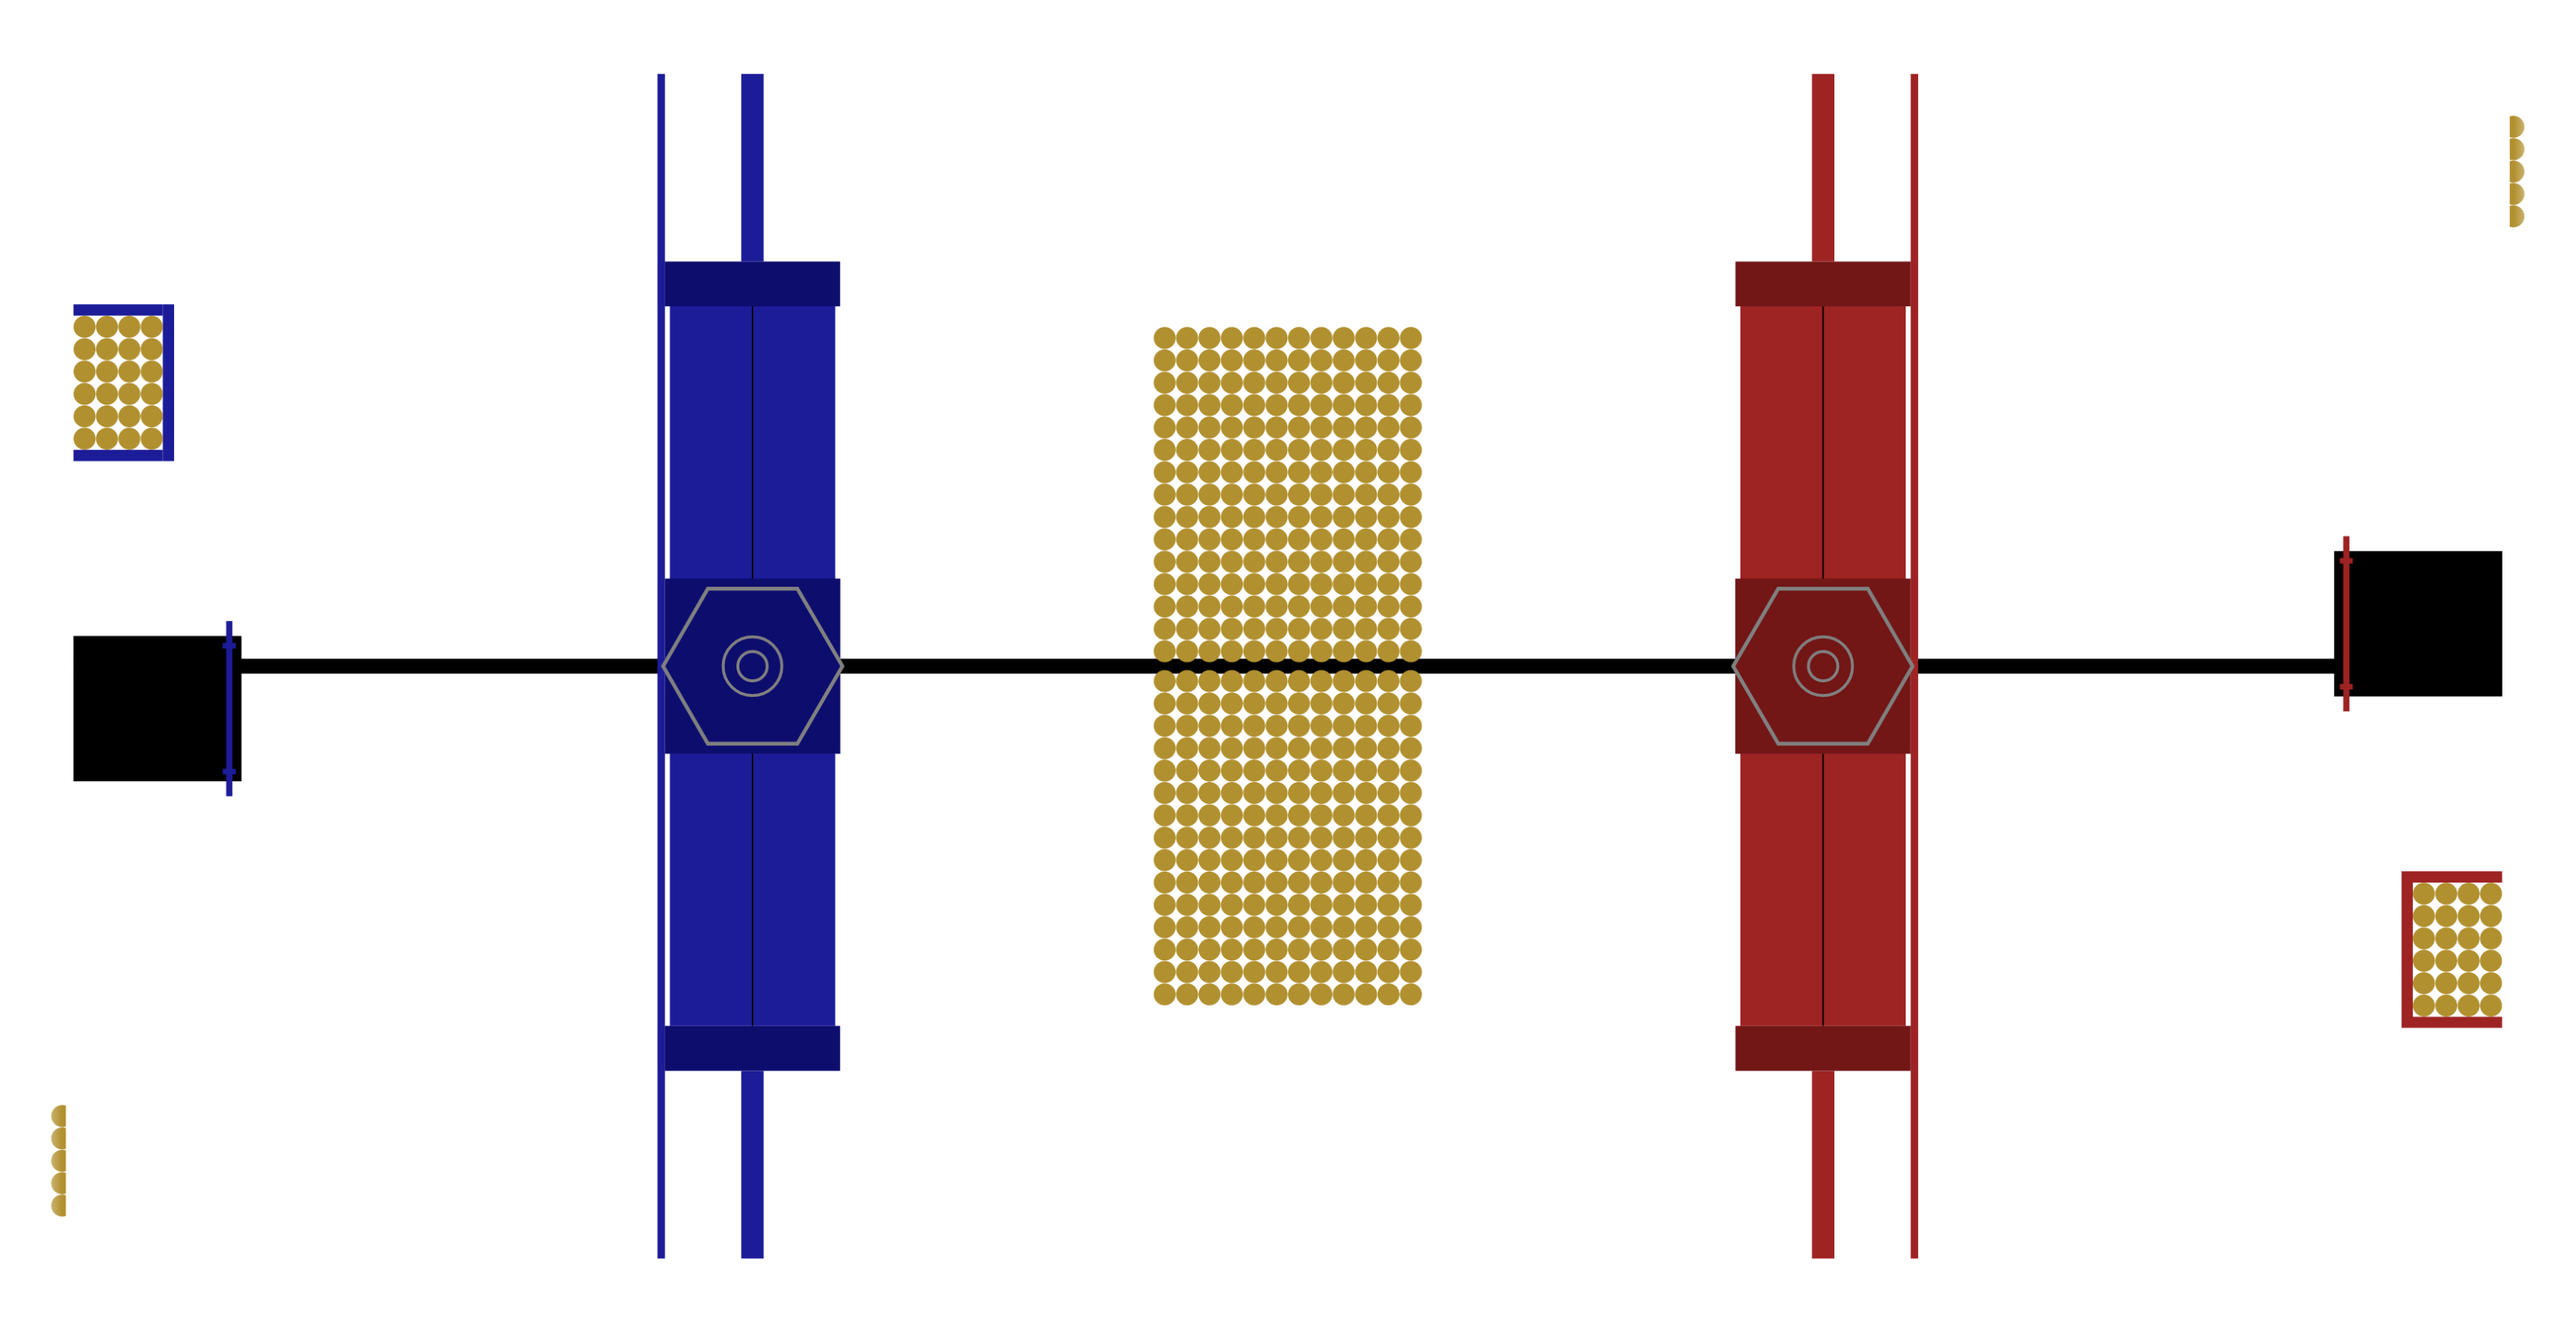
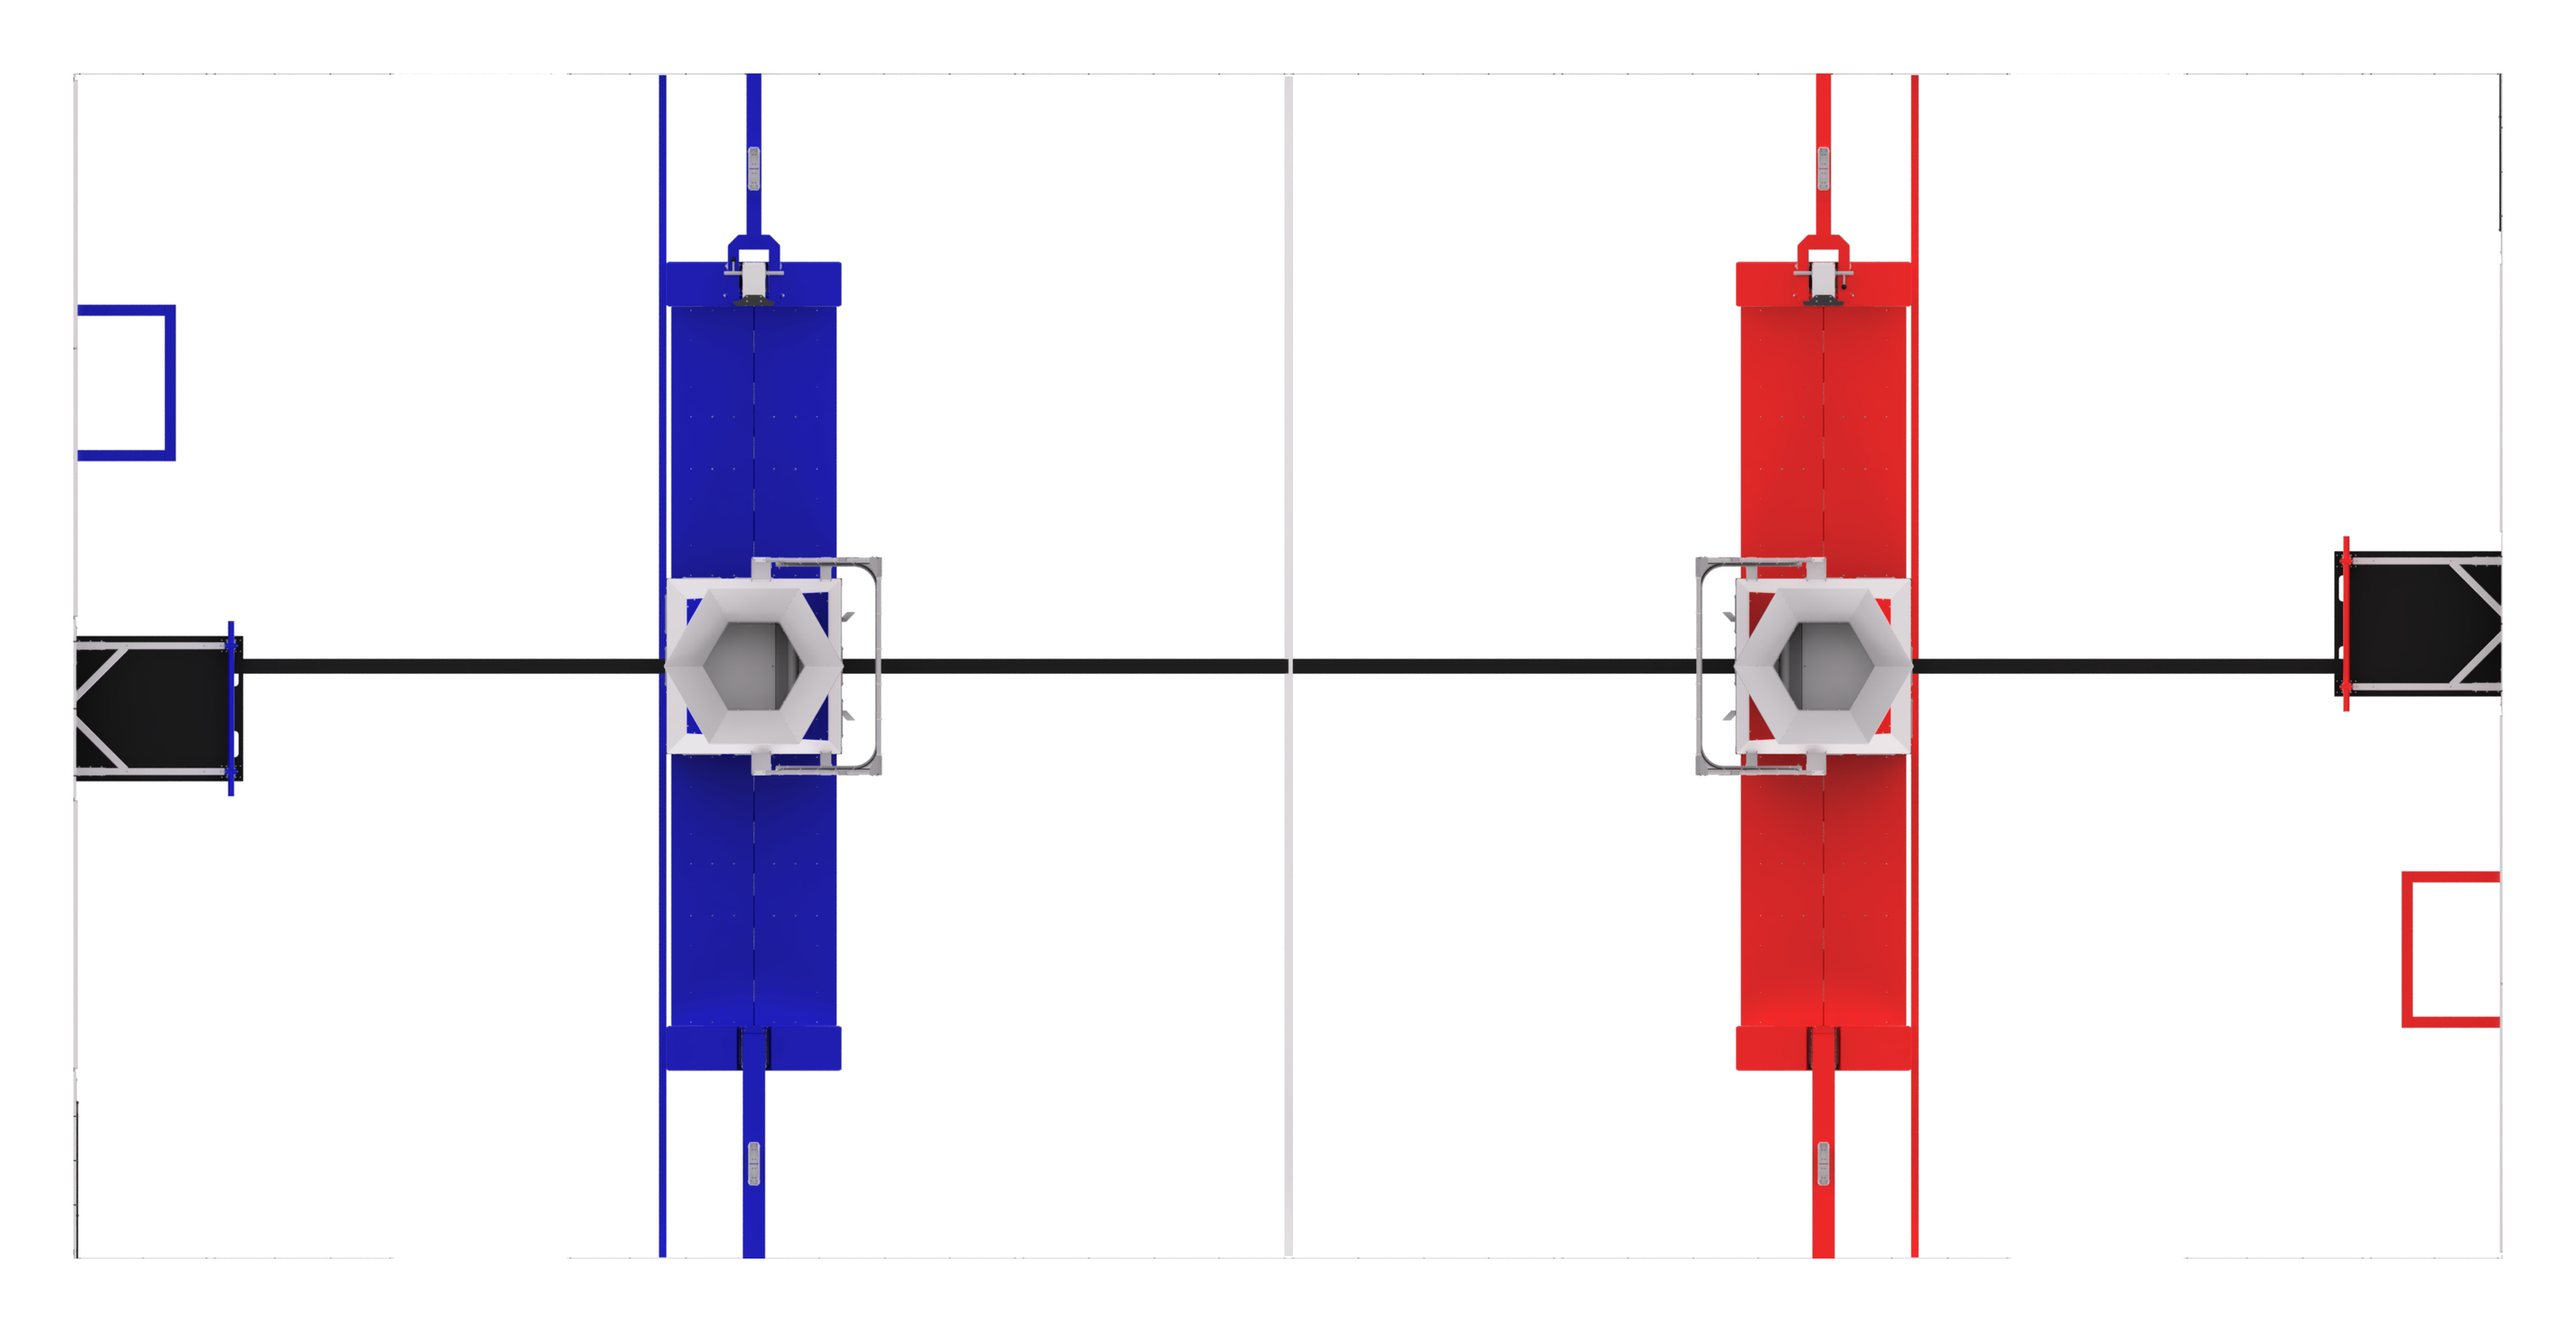
Use the empty 2026 field render as the field background
field26.png had the game pieces drawn on it: a wall of gold circles down the
middle and a stack in each corner. None of them exist in the simulation, so the
model was reading balls off the picture that it could never pick up, and real
fuel drawn on top disappeared into the painted ones.

Replaces it with the official 2026 field render photographed without game
pieces, rotated so the blue alliance wall is at x = 0, cropped to the inside
faces of the four walls and re-laid out to the same framing everything already
assumes - 3508 x 1814 px, 200 px/m, 0.5 m margin all round - so field_view.py,
render_demo.py and the cockpit need no code change. Verified by overlaying
navgrid.json on the new image: the blocked cells land on the hubs, trenches and
end structures.

Claude-Session: https://claude.ai/code/session_01KB9NG9ZbYuw51jPYqpqsM4

diff --git a/web/app.js b/web/app.js
@@ -4,7 +4,7 @@
 // serve.py) and everything in the transcript comes from the model, so this file
 // only decides how it looks.
 
-const IMAGE_PIXELS_PER_METRE = 200; // PathPlanner ships field26.png at 200 px/m
+const IMAGE_PIXELS_PER_METRE = 200; // field26.png is drawn at 200 px/m
 const IMAGE_MARGIN_M = 0.5;         // ...with half a metre of margin all round
 
 // The canvas is smaller than the image, so metres map through the ratio between

diff --git a/scripts/gemini_agent/field_view.py b/scripts/gemini_agent/field_view.py
@@ -6,11 +6,12 @@ one-metre grid, the obstacles PathPlanner will not drive through, where the
 robot is and which way it faces, what the camera can see, and the path it is
 following. Ask a spatial question about the map and the answer is on it.
 
-It is drawn over PathPlanner's official 2026 field image - the same background
-the demo video uses - so the hubs, trenches and alliance zones the model sees are
-the real ones rather than a sketch. On top of that go the obstacles from the
-robot's own navgrid.json, so the picture and the pathfinder also agree about what
-is solid.
+It is drawn over the official 2026 field render - the same background the demo
+video uses - so the hubs, trenches and alliance zones the model sees are the real
+ones rather than a sketch. The render is the empty field, with no game pieces on
+it, so every ball in the picture is one the simulation is really publishing. On
+top of that go the obstacles from the robot's own navgrid.json, so the picture
+and the pathfinder also agree about what is solid.
 """
 
 from __future__ import annotations
@@ -34,14 +35,14 @@ FIELD_IMAGE = os.path.join(_REPO, "scripts", "assets", "field26.png")
 
 ROBOT_SIZE_M = 0.9
 
-# PathPlanner ships field26.png at 200 px/m with a 0.5 m margin all round.
+# field26.png is framed like PathPlanner's images: 200 px/m, 0.5 m margin all round.
 FIELD_IMAGE_PPM = 200.0
 FIELD_IMAGE_MARGIN_M = 0.5
 
 
 @lru_cache(maxsize=1)
 def _load_field_image(path: str = FIELD_IMAGE):
-    """PathPlanner's field image, or None if it is missing - the map still draws."""
+    """The field image, or None if it is missing - the map still draws."""
     try:
         return matplotlib.image.imread(path)
     except (OSError, ValueError):

diff --git a/scripts/ai_demo/render_demo.py b/scripts/ai_demo/render_demo.py
@@ -10,7 +10,7 @@ FIELD = os.path.join(os.path.dirname(os.path.abspath(__file__)), "..", "assets",
 frames = pickle.load(open("/tmp/demo_frames.pkl","rb"))
 img = imageio.imread(FIELD)
 H, W = img.shape[0], img.shape[1]
-# PathPlanner ships field26.png at 200 px/m with a 0.5 m margin; scale if it is resized
+# field26.png is 200 px/m with a 0.5 m margin all round; scale if it is resized
 PPM, MARGIN = 200.0 * W / 3508.0, 0.5
 extent = [-MARGIN, W/PPM - MARGIN, -MARGIN, H/PPM - MARGIN]
 

diff --git a/docs/gemini-agent.md b/docs/gemini-agent.md
@@ -109,8 +109,9 @@ nothing else running.
 Every instruction arrives with a **top-down view of the field**, in the same coordinates the tools
 take, and `look_at_field` redraws it on demand:
 
-- PathPlanner's official 2026 field image underneath - the same background as the demo video, so
-  the hubs, trenches and alliance zones are the real ones rather than a sketch;
+- the official 2026 field render underneath - the same background as the demo video, so the
+  hubs, trenches and alliance zones are the real ones rather than a sketch. It is the empty
+  field, with no game pieces drawn on it, so every ball in the picture is simulated fuel;
 - a one-metre grid with labelled axes, so a position can be read straight off the picture;
 - the obstacles out of the robot's own `navgrid.json`, so the map and the pathfinder agree about
   what is solid;
@@ -213,7 +214,7 @@ to whatever host it connected to.
 | `scripts/gemini_agent/agent.py` | The CLI and the model loop: instruction in, tool calls out, answer back. |
 | `scripts/gemini_agent/robot_tools.py` | Tool schema and the code behind each tool. |
 | `scripts/gemini_agent/field_view.py` | The top-down field view the model looks at. |
-| `scripts/assets/field26.png` | PathPlanner's 2026 field image, shared by the field view and the demo renderer. |
+| `scripts/assets/field26.png` | The empty 2026 field render, shared by the field view and the demo renderer. |
 | `scripts/gemini_agent/nt4.py` | NT4 client for `/AIControl`, with no robotpy dependency. |
 | `scripts/gemini_agent/camera.py` | Pulls one JPEG out of an MJPEG stream. |
 | `scripts/gemini_agent/prompt.py` | The behaviour half of the system prompt. |

diff --git a/scripts/assets/README.md b/scripts/assets/README.md
@@ -1,10 +1,14 @@
 # Shared assets
 
-`field26.png` is PathPlanner's official 2026 field image, from
-[mjansen4857/pathplanner](https://github.com/mjansen4857/pathplanner)
-(`images/field26.png`, MIT licensed). It is 3508 x 1814 px at 200 px/m with a
-0.5 m margin on every side, which is what `field_view.py` and `render_demo.py`
-both assume when they map field metres onto it.
+`field26.png` is the official 2026 field render, cropped to the field of play and
+laid out the way PathPlanner's field images are: 3508 x 1814 px at 200 px/m with
+a 0.5 m margin on every side, blue alliance wall at x = 0. That is what
+`field_view.py`, `render_demo.py` and the cockpit all assume when they map field
+metres onto it, so a replacement has to keep the same framing.
+
+It is deliberately the render *without* game pieces on it: the only fuel in the
+picture is the fuel the simulation is publishing, drawn on top, so the model is
+never looking at balls that are not really there.
 
 It lives here so the picture the AI looks at and the picture in the demo video
 are the same field, and so neither needs to download anything to draw it.
